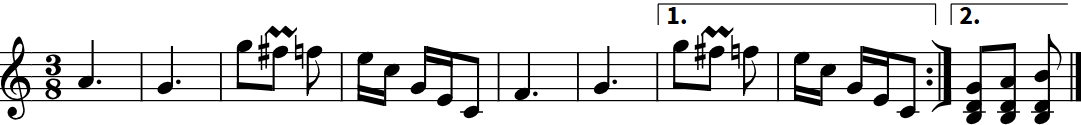
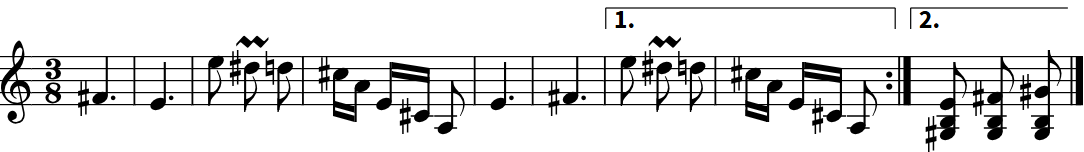
DDT Leningrad

Changed region(s): [[0.0, 0.216, 1.0, 1.0], [0.5495, 0.024, 1.0, 0.192], [0.0, 0.84, 0.0305, 0.96]]

diff --git a/index.html b/index.html
@@ -6060,7 +6060,10 @@ Fm      Eb   Ab   Bbm
 Я открыл окно и веселый ветер разметал все на столе:
           Em                 Dm        E          Am  Am/C Dm/B E7
 Глупые стихи, что писал я в душной и унылой пустоте.</verse>
-<instr><bblue>Бас</bblue></instr>
+<instr><bblue>Бас</bblue>
+Dm Am F  Am
+Em 
+Am ..........</instr>
 <verse><span class="voice">Strings</span><bblue>отрывистыми аккордами на сильную долю</bblue>
 `                Am  Am/C       Dm/B       E7       Am
 Грянул майский гром, и веселье бурною, пьянящею волной
@@ -6102,144 +6105,144 @@ Am  Am/C | Dm/B E7 <bblue>x4</bblue></coda>
             </div>
     </div>
 
-    <div class="accordion" artist="ДДТ" song="Ленинград" key="С" bank="10-1" hash="0vjt0ekeuzfywgg">
+    <div class="accordion" artist="ДДТ" song="Ленинград" keycustom="A" bank="10-1" hash="0vjt0ekeuzfywgg">
         <button class="toggle-button">
             <chord>https://amdm.ru/akkordi/ddt/116409/leningrad/</chord>
             <yt>https://www.youtube.com/watch?v=LwlZkDzTZqo</yt>
         </button>
             <div class="content">
 <song>
-<intro>C Cmaj | C6 Cmaj <bblue>x2</bblue>
+<intro>A Amaj | A6 Amaj <bblue>x2</bblue>
 <img imagetype="scores" data-src="ddt.leningrad.1.png">
 </intro>
 <verse><span class=voice>Pinao</span>
-`     C                      F
+`     A                       D
 Плюс один, ноль, плюс два, почернела зима,
-      C                 G
+       A                 E
 Расцветает январь язвой неба, ха-ха!
-      F        C          G         Am
+       D        A          E         F#m
 С юга ветер приполз, неспособный на бег,
-    F       C       G G/A G/B C
+     D       A       E         A
 Пожирает дохляк пересоленный снег.</verse>
-<chorus><bblue>переключиться на банк</bblue>
+<chorus><span class="bank">10-1</span>
 <img imagetype="scores" data-src="ddt.leningrad.2.png">
-    F          C G7   Am
-А за ним, как чума, весна,
-    F          C G7/B Am
+      D          A  E7     F#m
+А за ним, как чума,    весна,
+      D          A  E7     F#m
+а за ним, как чума,    весна,
+    D          A E7   F#m
 а за ним, как чума, весна,
-    F          C G7   Am
-а за ним, как чума, весна,
-    F          C
+    D          A
 а за ним, как чума.
-G  G/A G/B
+E
 Ох-ха-хаа!</chorus>
 <instr><img imagetype="scores" data-src="ddt.leningrad.1.png">
-C Cmaj | C6 Cmaj <bblue>x2</bblue></instr>
+A Amaj | A6 Amaj <bblue>x2</bblue></instr>
 <verse><span class=voice>Pinao</span><bblue>активнее</bblue>
-     C                 F
+      A                  D
 А на Невский слетелася стая сапог,
-     C               G
+      A               E
 А на Невском такая царит кутерьма,
-      F            C        G        Am
+       D            A        E       F#m
 А над Невским в глазок наблюдает тюрьма,
-     F    C     G        Am
+     D    A      E        F#m
 Состоящая из одиноких мужчин,
-     F         C       G G/A G/B C
+      D         A       E       A
 Не нашедших причин дарового тепла.</verse>
-<chorus><bblue>переключиться на банк</bblue>
+<chorus><span class="bank">10-1</span>
 <img imagetype="scores" data-src="ddt.leningrad.2.png">
-    F         C G7  Am
-Непонятна весьма весна,
-    F         C G7/B Am
-Непонятна весьма весна,
-    F         C G7  Am
-Непонятна весьма весна,
-    F         C
+     D         A E7    F#m
+Непонятна весьма   весна,
+     D         A      F#m
+Непонятна весьма   весна,
+     D         A E7    F#m
+Непонятна весьма   весна,
+     D         A
 Непонятна весьма.
-G  G/A G/B
+E
 Ох-ха-хаа!</chorus>
 <instr><img imagetype="scores" data-src="ddt.leningrad.1.png">
-C Cmaj | C6 Cmaj <bblue>x2</bblue></instr>
+A Amaj | A6 Amaj <bblue>x2</bblue></instr>
 <verse><span class=voice>Pinao</span><bblue>активнее</bblue>
-      C              F
+       A              D
 А в каналах вода отражает мосты
-    C                 G
+     A                 E
 И обрывы дворцов, и колонны-леса,
-     F      C        G        Am
+      D      A        E       F#m
 И стога куполов, и курятник-киоск,
-     F       C          G       Am
+     D        A          E       F#m
 Раздающий за так связки вяленых роз.
-      F         C/E        G/D     Am
+       D         A/C#       E/B     F#m
 А культура, вспотев в целлофане дождей,
-     F        C         G/B     Am
+      D        A         E/G#     F#m
 Объявляет для всех ночи белых ножей.
-    F        C          G         Am   <bblue>Strings</bblue>
+    D         A          E         F#m   <bblue>Strings</bblue>
 И боимся все мы, что дойдём до войны…<img imagetype="scores" data-src="ddt.leningrad.3.png">
 |--пауза--|
 <img imagetype="scores" data-src="ddt.leningrad.4.png"></verse>
-<chorus><bblue>переключиться на банк</bblue>
+<chorus><span class="bank">10-1</span>
 <img imagetype="scores" data-src="ddt.leningrad.2.png">
-    F     C G7   Am
-Виновата она, весна,
-    F     C G7/B Am
-Виновата она, весна,
-    F     C G7   Am
-Виновата она, весна,
-    F     C
+     D     A E7   F#m
+Виновата она,  весна,
+     D     A E7   F#m
+Виновата она,  весна,
+     D     A E7   F#m
+Виновата она,  весна,
+     D     A
 Виновата она.
-G  G/A G/B
+E
 Ох-хо-хо!</chorus>
 <verse><span class=voice>Pinao</span>
-   C        C/E        F          F/A
-   Эй, Ленинград, Петербург, Петроградище,
-   C       C/E       G
-   Марсово пастбище, Зимнее кладбище,
-   C          C/E     F         F/A
-   Отпрыск России, на мать не похожий:
-   C          C/E      G         G/A G/B
-   Бледный, худой, евроглазый прохожий.
-
-   C         C/E        F      F/A
-   Герр Ленинград, до пупа затоваренный,
-   C        C/E      G
-   Жареный, пареный, дареный, краденый.
-   C         C/E       F      F/A
-   Мсье Ленинград, революцией меченный,
-   C        C/E         G     G/A G/B
-   Мебель паливший, дом перекалеченный.
-
-     C       C/E      F         F/A
-   С окнами, бабками, львами, титанами,
-   C       C/E        G
-   Липами, сфинксами, медью, Аврорами.
-   C        C/E         F       F/A
-   Сэр Ленинград, Вы теплом избалованы,
-   C        C/E    G     G/A G/B
-   Вы в январе уже перецелованы.
-
-   C         C/E        F        F/A
-   Жадной весной ваши с ней откровения
-   C           C/E     G
-   Вскрыли мне вены тоски и сомнения.
-   C        C/E        F         F/A
-   Пан Ленинград, я влюбился без памяти
-     C         G7/B   Am
-   В Ваши стальные глаза…</verse>
+    A        A/C#        D          D/F#
+    Эй, Ленинград, Петербург, Петроградище,
+    A        A/C#      E
+    Марсово пастбище, Зимнее кладбище,
+    A          A/C#     D         D/F#
+    Отпрыск России, на мать не похожий:
+    A          A/C#       E        E/F#    E/G#
+    Бледный, худой, евроглазый прохожий.
+ 
+    A           A/C#      D      D/F#
+    Герр Ленинград, до пупа затоваренный,
+    A         A/C#     E
+    Жареный, пареный, дареный, краденый.
+       A        A/C#     D      D/F#
+    Мсье Ленинград, революцией меченный,
+    A         A/C#        E     E/F#  E/G#
+    Мебель паливший, дом перекалеченный.
+ 
+      A        A/C#       D       D/F#
+    С окнами, бабками, львами, титанами,
+    A         A/C#      E
+    Липами, сфинксами, медью, Аврорами.
+    A          A/C#       D       D/F#
+    Сэр Ленинград, Вы теплом избалованы,
+    A        A/C#    E     E/F#   E/G#
+    Вы в январе уже перецелованы.
+ 
+    A         A/C#        D        D/F#
+    Жадной весной ваши с ней откровения
+    A           A/C#     E
+    Вскрыли мне вены тоски и сомнения.
+    A        A/C#        D         D/F#
+    Пан Ленинград, я влюбился без памяти
+      A         E7/G#   F#m
+    В Ваши стальные глаза…</verse>
 <instr><bblue>Accordion</bblue>
 <img imagetype="scores" data-src="ddt.leningrad.5.png"></instr>
-<chorus><bblue>переключиться на банк</bblue>
+<chorus><span class="bank">10-1</span>
 <img imagetype="scores" data-src="ddt.leningrad.2.png">
-    F      C G7   Am
-Напои допьяна, весна,
-    F      C G7/B Am
-Напои допьяна, весна,
-    F      C G7   Am
-Напои допьяна, весна,
-    F      C
+    D       A E7   F#m
+Напои допьяна,  весна,
+    D      A  E7    F#m
+Напои допьяна,  весна,
+    D      A  E7   F#m
+Напои допьяна,  весна,
+    D       A
 Напои допьяна.
 <span class=voice>Piano</span>
 <bblue>rit</bblue>
-G  G/A G/B  
+E  E/F# E/G#
 Ах-ха-ха-ха!<img imagetype="scores" data-src="ddt.leningrad.6.png">
 </chorus>
 </song>
@@ -25063,6 +25066,7 @@ D#m A#m F A#m <bblue>x2</bblue></instr>
             <input type="number" id="setlist-song">
         </label>
         <button class="setlist-save" id="setlist-save">Сохранить</button>
+        <button type="button" class="setlist-autofill" id="setlist-autofill-next" title="Последний блок и следующий номер песни" aria-label="Подставить последний блок и следующий номер песни">🪄</button>
         <button class="setlist-clear" id="setlist-clear">Очистить</button>
     </div>
 </div>

diff --git a/setlist.js b/setlist.js
@@ -45,6 +45,40 @@ function setlistClose() {
     currentHash = null;
 }
 
+function setlistFillLastBlockNextSong() {
+    const band = document.getElementsByClassName('band-select')[0]?.value;
+    if (!band) return;
+    const list = document.querySelector(`.songlist[band="${band}"]`);
+    if (!list) return;
+
+    const hashes = Array.from(list.querySelectorAll('.accordion')).map(el => el.getAttribute('hash'));
+    let maxBlock = 0;
+    const entries = [];
+
+    for (const hash of hashes) {
+        const data = setlistData[hash];
+        if (!data) continue;
+        const block = parseInt(data.block, 10);
+        const song = parseInt(data.song, 10);
+        if (block > 0 && song > 0) {
+            entries.push({ block, song });
+            if (block > maxBlock) maxBlock = block;
+        }
+    }
+
+    let nextBlock = 1;
+    let nextSong = 1;
+
+    if (entries.length > 0) {
+        nextBlock = maxBlock;
+        const songsInLast = entries.filter(e => e.block === maxBlock).map(e => e.song);
+        nextSong = Math.max(...songsInLast) + 1;
+    }
+
+    document.getElementById('setlist-block').value = nextBlock;
+    document.getElementById('setlist-song').value = nextSong;
+}
+
 // --- обработчики ---
 window.addEventListener('DOMContentLoaded', () => {
     document.getElementById('setlist-close').onclick = setlistClose;
@@ -69,6 +103,10 @@ window.addEventListener('DOMContentLoaded', () => {
     document.getElementById('setlist-clear').onclick = async () => {
         document.getElementById('setlist-block').value = "";
         document.getElementById('setlist-song').value = "";
+    };
+
+    document.getElementById('setlist-autofill-next').onclick = () => {
+        setlistFillLastBlockNextSong();
     };
 
 });

diff --git a/music.css b/music.css
@@ -590,6 +590,7 @@ span.midi.error::after {
 }
 
 .setlist-save,
+.setlist-autofill,
 .setlist-clear {
   margin-top: 12px;
   padding: 6px 10px;
@@ -600,11 +601,19 @@ span.midi.error::after {
   cursor: pointer;
 }
 
+.setlist-autofill {
+  margin-left: 8px;
+  font-size: 1.15em;
+  line-height: 1;
+  padding: 6px 12px;
+}
+
 .setlist-clear {
   float: right;
 }
 
-.setlist-save:hover {
+.setlist-save:hover,
+.setlist-autofill:hover {
   background: var(--setlist-btn-hover);
 }
 
